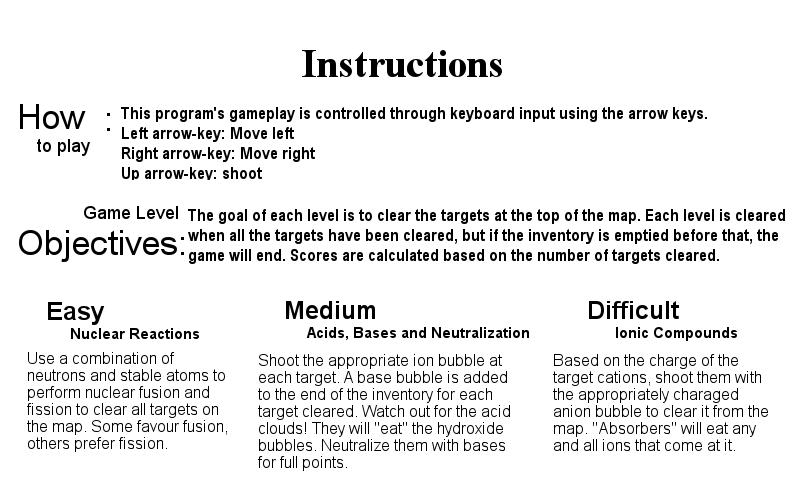
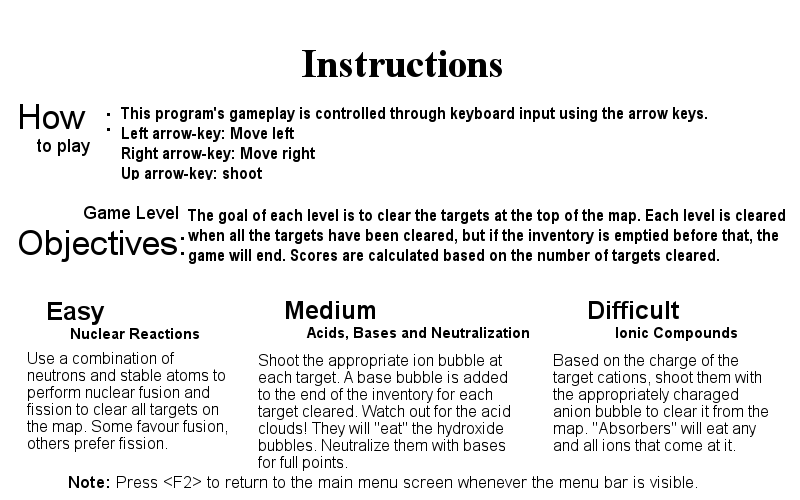
Update: Name Prompt
Instructions: updated image, includes note on how to return to main
menu.
SidePanel: calls GameWindow method askName, user now has option to
cancel their choice of returning to main menu.
GameWindow: added askName method to ask user to input their name in
order to pass into HighscoresPanel overloaded constructor.

Changed region(s): [[0.0938, 0.96, 0.875, 0.99]]

diff --git a/Classes/GameWindow.java b/Classes/GameWindow.java
@@ -16,6 +16,7 @@ import java.awt.*;
  * @version 1.6, May 31 2014. (Added difficult level)
  * @version 1.7, June 4 2014. (Added keyReleased = for shooting, to eliminate player shooting randomly, win, loseFocus and changeScreen methods)
  * @version 1.8, June 5 2014. (JavaDoc)
+ * @version 1.9, June 6 2014. (Added username prompt to create score record.)
  */
 public class GameWindow
 {
@@ -63,6 +64,10 @@ public class GameWindow
    * frame - MenuFrames - Represents the corresponding MenuFrames object. 
    */
   private MenuFrames frame;
+  /**
+   * gameLevel - int - Represents the current game difficulty, which is set to easy by default. 
+   */
+  private int gameLevel = 1;
   
   /**
    * The class constructor. 
@@ -106,6 +111,7 @@ public class GameWindow
     game = new LevelMap (this);
     panel = new SidePanel(this);
     pause = new PausePanel (this);
+    gameLevel = level; //sets game level as user's choice from level selection
     
     //add keyboard listener
     keyboardListener = new KeyboardListener(){
@@ -177,6 +183,7 @@ public class GameWindow
   public void win (int level)
   {
     pause.showWin (level);
+    gameLevel = level + 1;//if they win, game level is now next level
   }
   
   /**
@@ -316,5 +323,36 @@ public class GameWindow
   public MenuFrames getMenus()
   {
     return frame;
+  }
+  
+  /**
+   * The "askName" method, which prompts the user to input their name before returning to the main menu. The while loop
+   * is used to repeatedly prompt for input until an acceptable name has been given.
+   * 
+   * @param username String - Stores the user's name.
+   * @param level String - String representation of the current game level.
+   * @return Returns false if the user chooses to cancel (not return to main menu), true if an acceptable name is entered.
+   */
+  protected boolean askName()
+  {
+    String username = "";
+    String level;
+    if (gameLevel == 1)
+      level = "Easy";
+    else if (gameLevel == 2)
+      level = "Medium";
+    else
+      level = "Difficult";
+    
+    while (true)
+    {
+      username = (String)JOptionPane.showInputDialog("Enter your name. \n(Note: Maximum 10 characters, no spaces.)");
+      if (username == null)
+        return false;
+      if (!username.equals("") && username.length() <= 10 && !username.contains(" "))
+        break;
+    }
+    new HighscorePanel (username, getScreenFactory().getCurrentScreen().getPlayer().getCurrentPoints(), level);
+    return true;
   }
 }

diff --git a/Classes/SidePanel.java b/Classes/SidePanel.java
@@ -9,7 +9,8 @@ import java.awt.event.*;
  * @author Chusa Nguyen
  * @version 1.0, May 28, 2014. (added panel to the side, the main menu, pause and sound buttons. Sound button not yet functional)
  * @version 1.1, May 30 2014. (Fixed null pointer exception described in MenuFrames and added ActionListener to sound.)
- * @version 1.2, June 4, 2014. (Music now does not lose focus of the game)
+ * @version 1.2, June 4, 2014. (Music now does not lose focus of the game.)
+ * @version 1.3, June 6, 2014. (Prompts user for name before returning to main menu. Option to cancel and return to game if main menu clicked.)
  */
 public class SidePanel extends JPanel
 {
@@ -86,6 +87,11 @@ public class SidePanel extends JPanel
     mainMenu.addActionListener (new ActionListener ()
                                   {
       public void actionPerformed (ActionEvent e)      { 
+        if (!myGame.askName())
+        {
+          myGame.getWindow().requestFocusInWindow();
+          return;
+        }
         if (createdSettings)
           myGame.getMenus().removeSettings();
         myGame.getMenus().setVisible(true);
